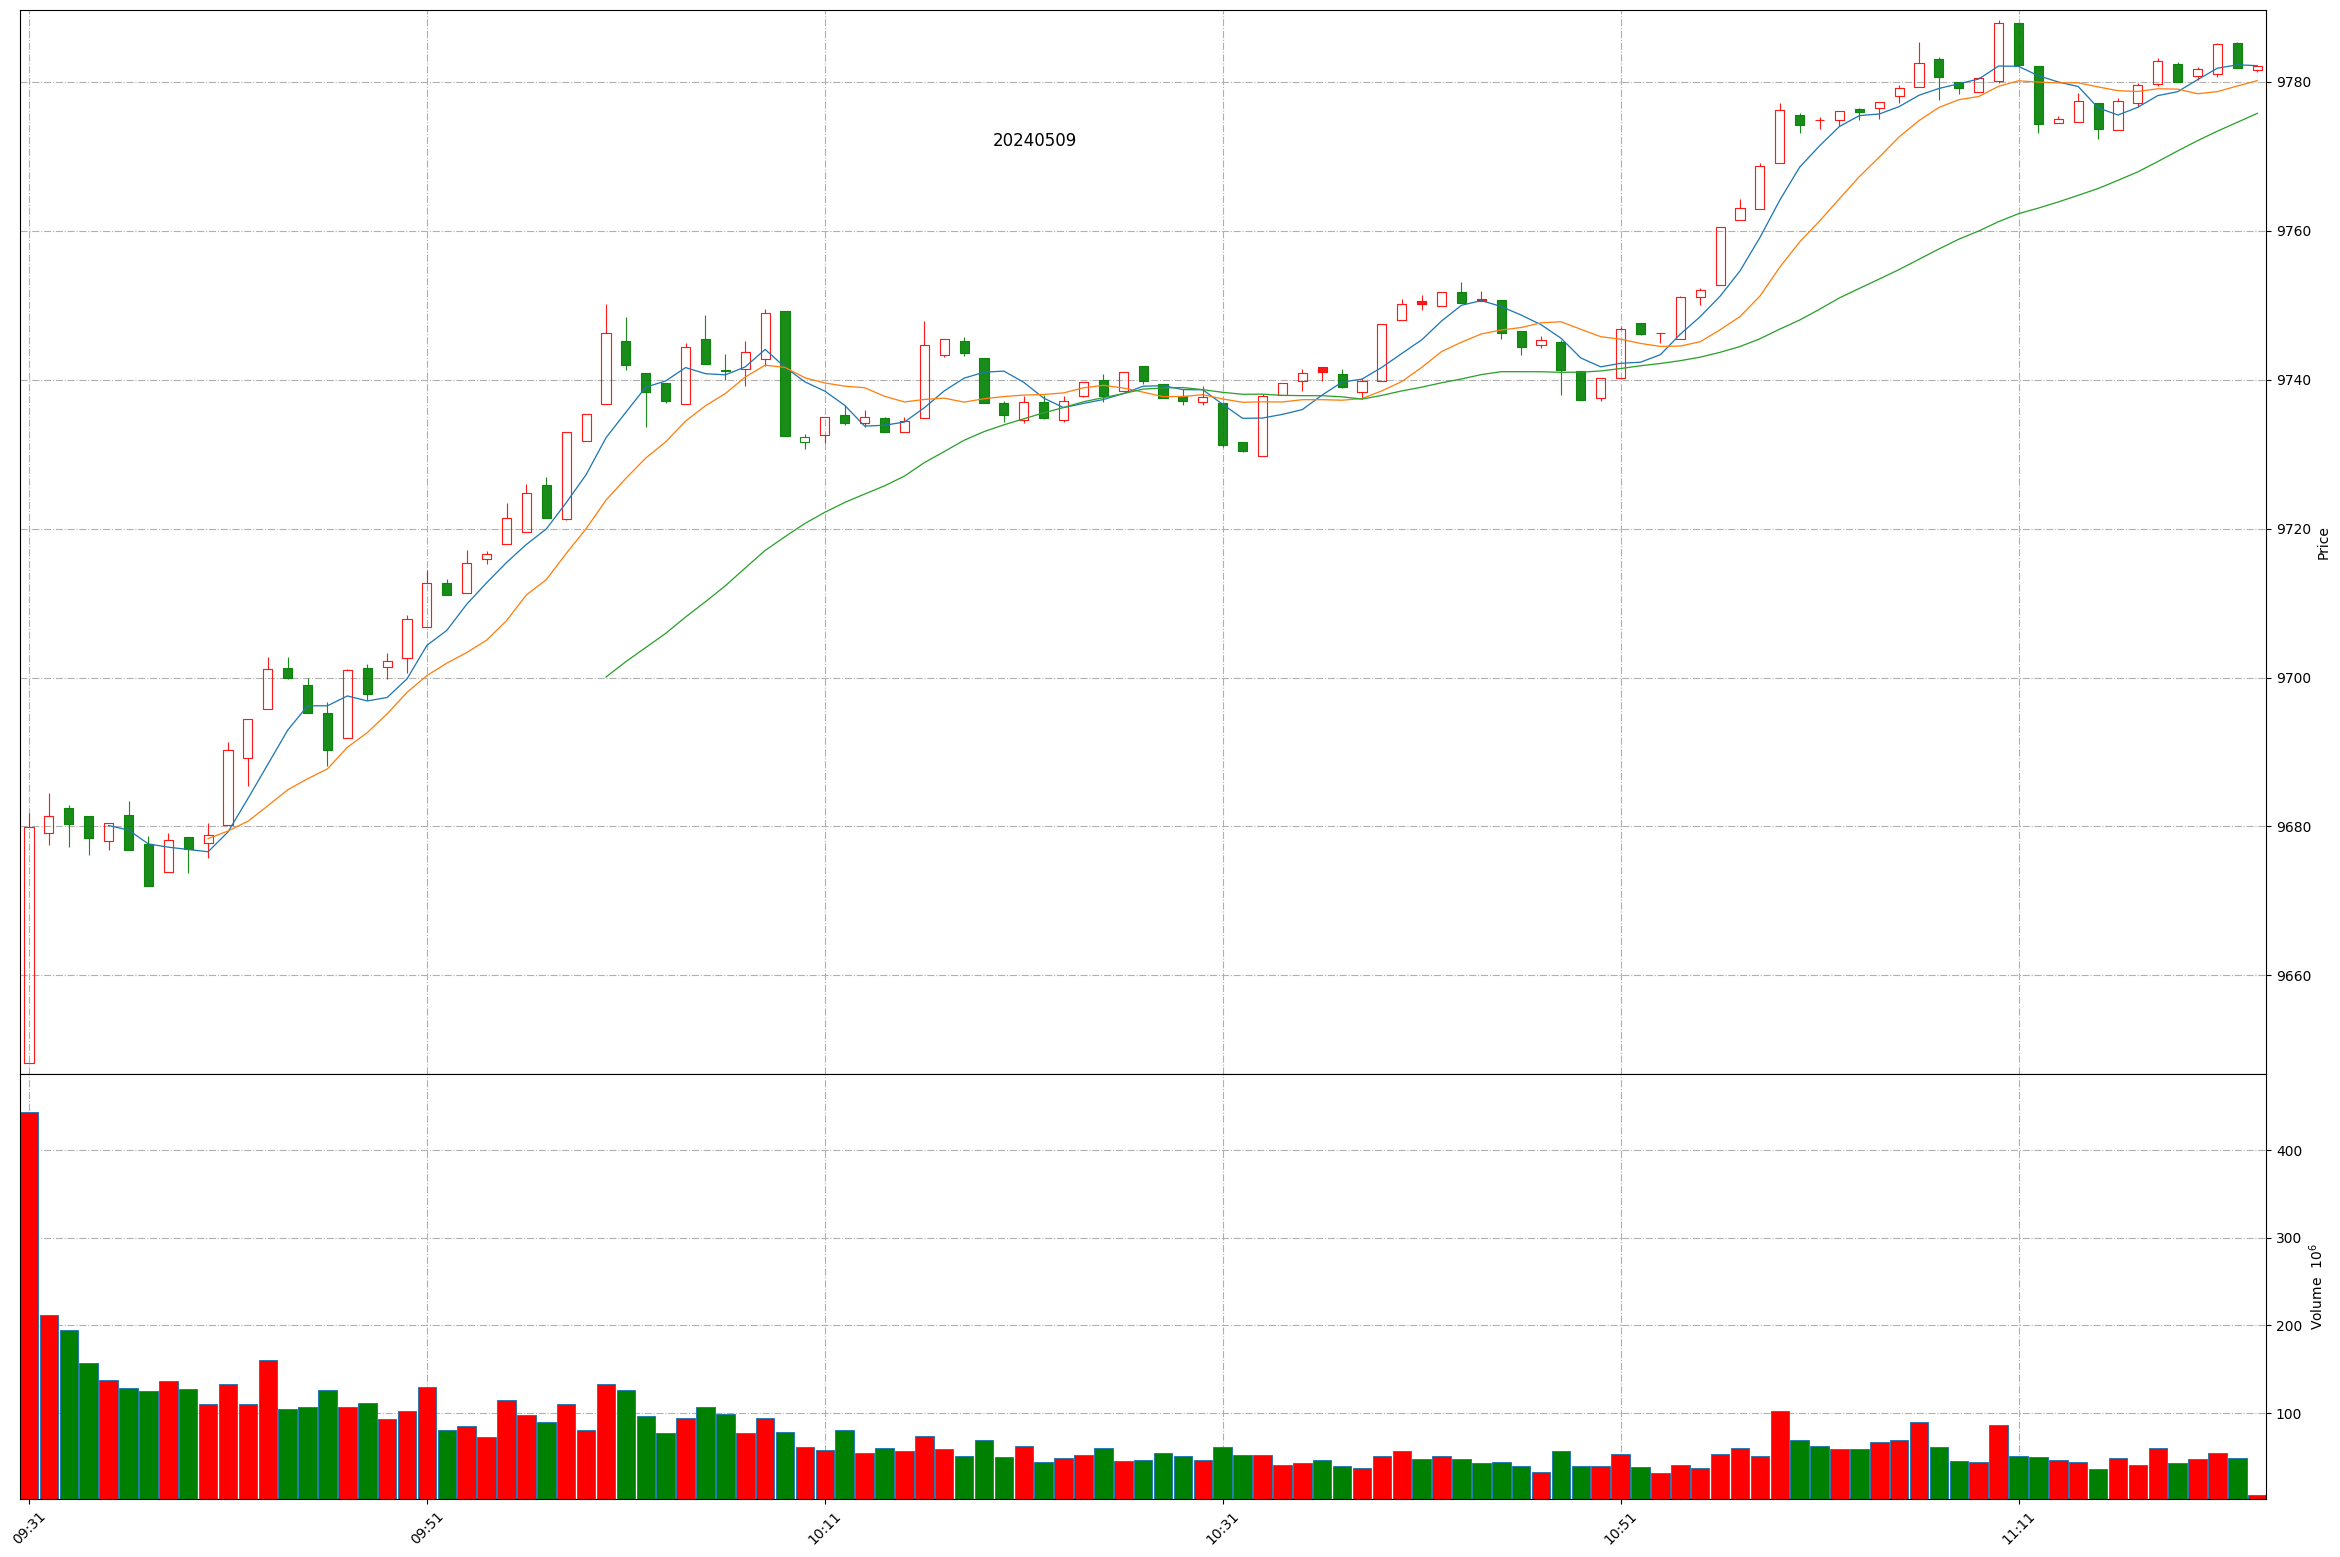
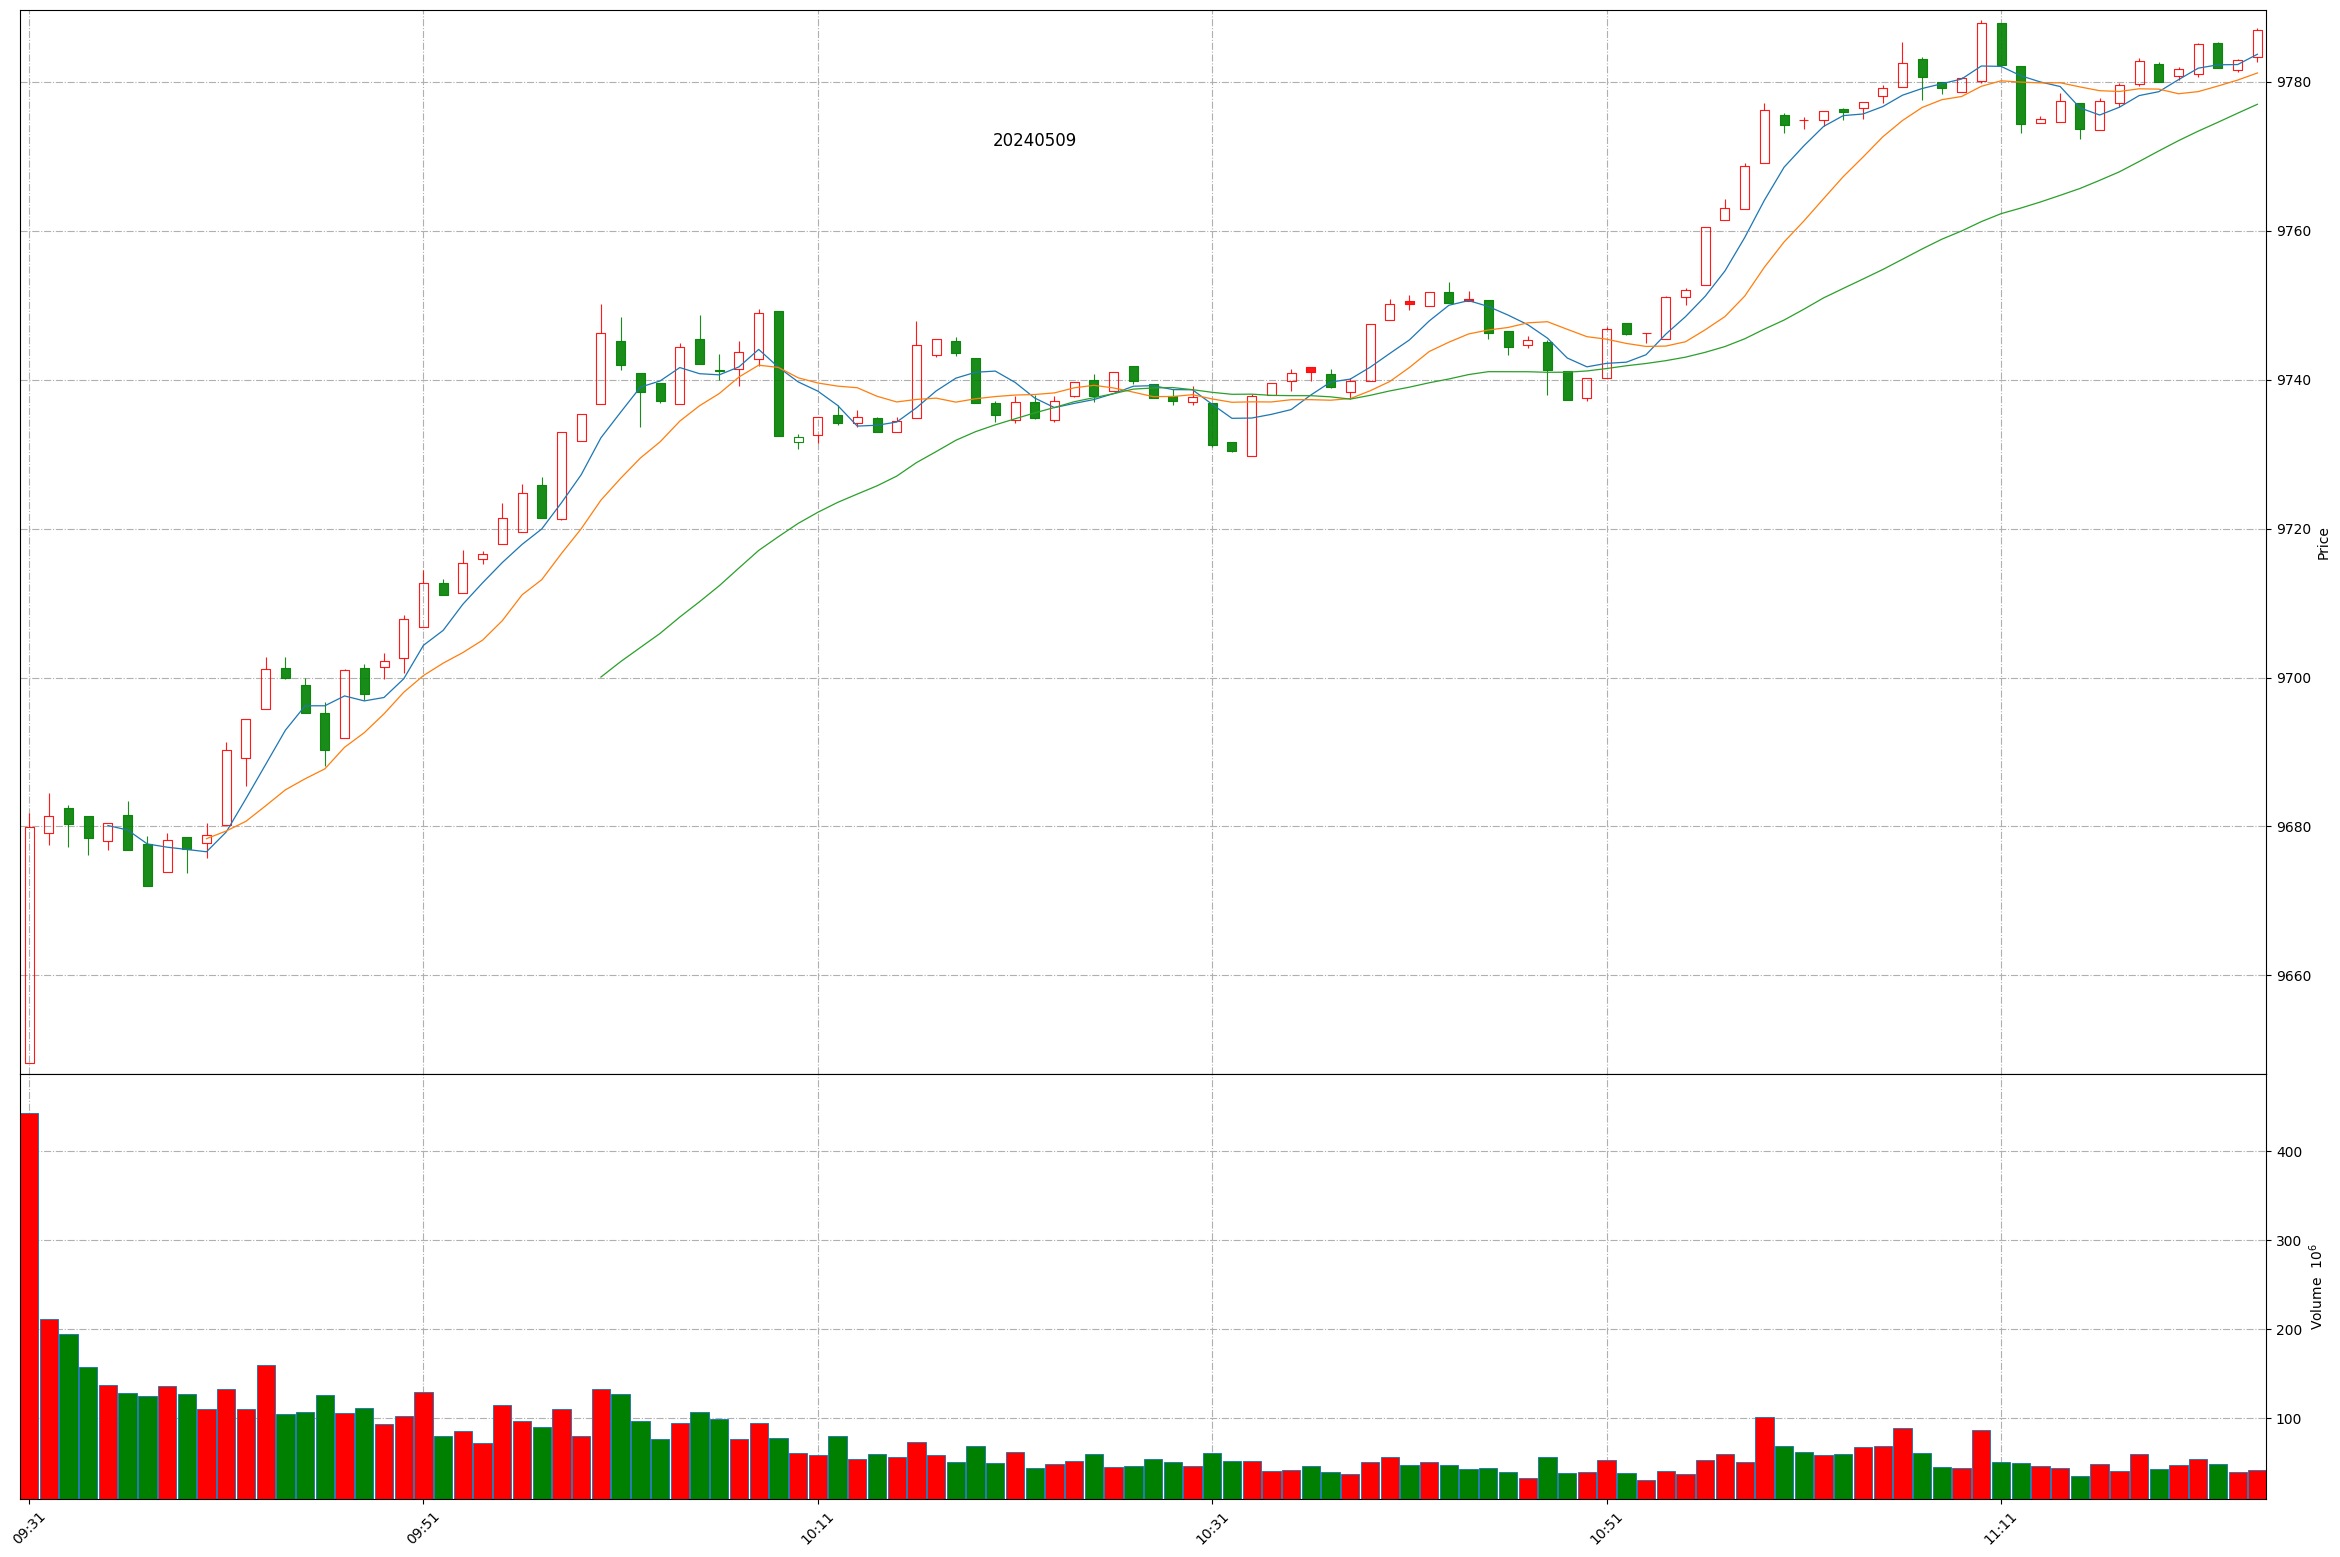
Github action update at 2024-05-09 11:24:16.

diff --git a/README.md b/README.md
@@ -1,11 +1,11 @@
 
 # Daily-A-share-market-quotes 每日 A 股指数（5min 更新）- 20240509
 
-### 上证指数 20240509 11:22
+### 上证指数 20240509 11:24
 ![](./fig/2024/5/20240509-sh000001.png)
 
-### 深证成指 20240509 11:22
+### 深证成指 20240509 11:24
 ![](./fig/2024/5/20240509-sz399001.png)
 
-### 北证50 20240509 11:22
+### 北证50 20240509 11:24
 ![](./fig/2024/5/20240509-bj899050.png)
